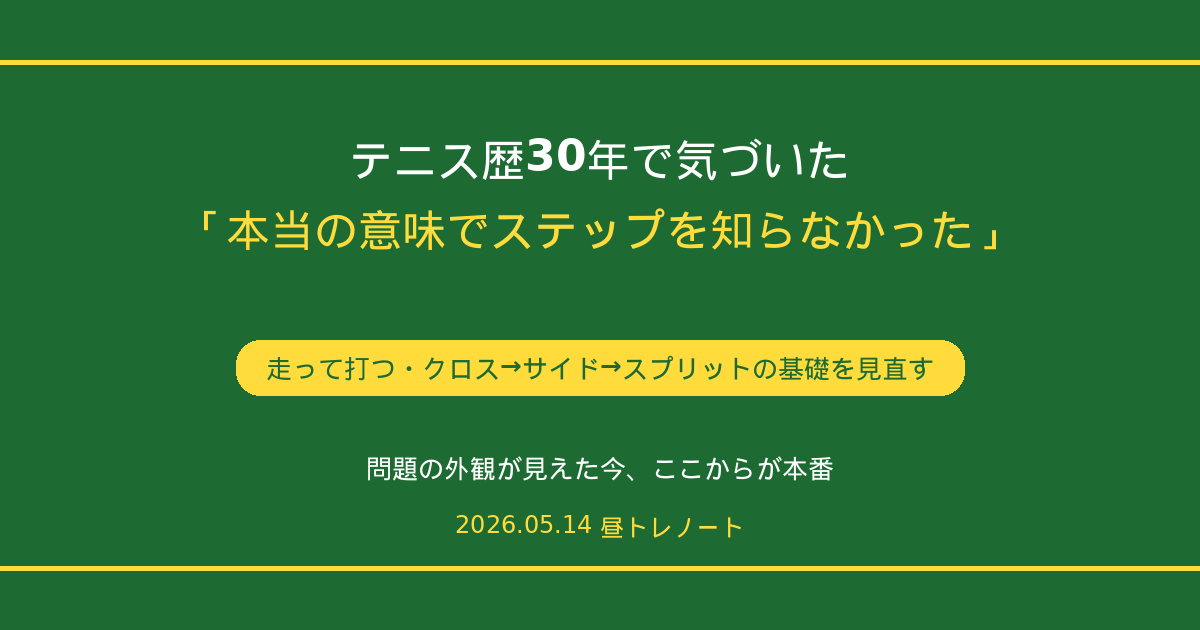
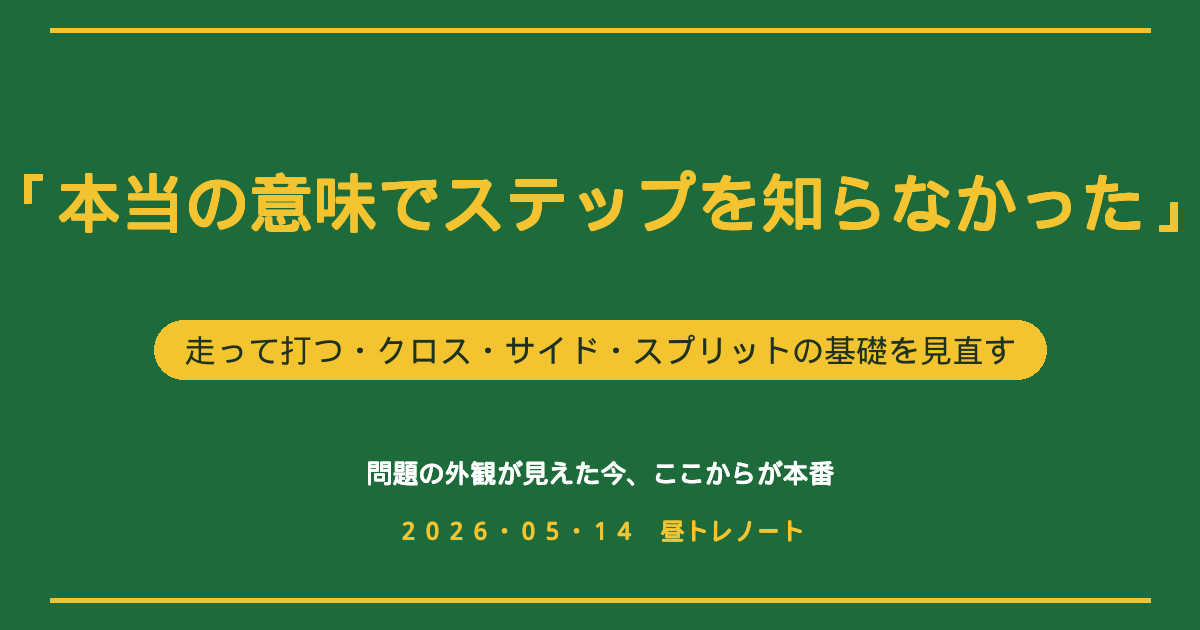
change

diff --git a/src/content/blog/tennis-0514-knew-not-the-steps.md b/src/content/blog/tennis-0514-knew-not-the-steps.md
@@ -1,28 +1,24 @@
 ---
-title: "テニス歴30年で気づいた『本当の意味でステップを知らなかった』｜走って打つ・クロス→サイド→スプリットの基礎を見直した昼トレ｜2026.05.14"
-description: "テニス歴30年弱で気づいた驚きの事実『本当の意味でステップを知らなかった』。クロスステップ→サイドステップ→スプリットステップの基礎を知らずにラリーしていたから、ラリーが続かない・反応が遅い・先生に動けないと言われる、すべての理由がここに集約していた。30年目で『できていなかったものの外観』が見え始めた今、本気で動けるようになるためのステップ練習継続宣言。"
+title: "『本当の意味でステップを知らなかった』｜走って打つ・クロス→サイド→スプリットの基礎を見直した昼トレ｜2026.05.14"
+description: "気づいた驚きの事実『本当の意味でステップを知らなかった』。クロスステップ→サイドステップ→スプリットステップの基礎を知らずにラリーしていたから、ラリーが続かない・反応が遅い・先生に動けないと言われる、すべての理由がここに集約していた。30年目で『できていなかったものの外観』が見え始めた今、本気で動けるようになるためのステップ練習継続宣言。"
 pubDate: "2026-05-14"
 ---
 
-# テニス歴30年で気づいた『本当の意味でステップを知らなかった』｜走って打つ・クロス→サイド→スプリットの基礎を見直した昼トレ
+# 『本当の意味でステップを知らなかった』｜走って打つ・クロス→サイド→スプリットの基礎を見直した昼トレ
 
 今日も **昼休みのテニストレーニング** で、 **打つ→戻る→構える** を反復しました。
-
-そして、ここ数日続けてきて、自分の中で **大きな気づき** が降りてきました。
 
 > **本当の意味でステップを知らなかったね。**
 
 今日はその気づきと、ここから先に向けての宣言を残します。
 
-![テニス歴30年で気づいた『本当の意味でステップを知らなかった』](/images/tennis-0514-cover.png)
+![『本当の意味でステップを知らなかった』](/images/tennis-0514-cover.png)
 
 ---
 
 ## ① 先生に「動けないよ」と言われていた、本当の理由
 
 > **「動けてないよ」**
-> **「もっと速く動いて」**
-> **「足が遅いよ」**
 
 正直、自分でも **「動こうとはしてるんだけどな」** と思っていました。でも、結局動けていなかった。なぜか。
 
@@ -54,11 +50,11 @@ pubDate: "2026-05-14"
 
 ---
 
-## ③ テニス歴30年弱でも、伸びる余地はまだまだある
+## ③ 伸びる余地はまだまだある
 
 ここ数日の気づきで、 **完全に意識が変わりました** 。
 
-- **30年やってきても、知らないことはまだまだある**
+- **知らないことはまだまだある**
 - **知らないことを知れば、それは伸びしろになる**
 - **伸びしろがあるなら、まだ成長できる**
 
@@ -93,9 +89,9 @@ pubDate: "2026-05-14"
 
 最後に、自分自身への期待を素直に書いておきます。
 
-> **テニス歴30年弱で『本当の意味でステップを知らなかった』と気づけた人間が、ここからどこまで伸びるのか。**
+> **『本当の意味でステップを知らなかった』と気づけた人間が、ここからどこまで伸びるのか。**
 
-正直、楽しみです。 **「動けてないよ」** と言われた自分が **動けるようになるのは、そう遠くない** と思います。今のペースで気づきが降りてくるなら、たぶん、 **1〜2ヶ月後には実感できる変化** が体に現れるはず。
+正直、楽しみです。 **「動けてないよ」** と言われた自分が **動けるようになるのは、そう遠くない** と思います。今のペースで気づくなら、たぶん、 **1〜2ヶ月後には実感できる変化** が体に現れるはず。
 
 明日も、 **クロス→サイド→スプリット** 、地道に積み重ねていきます。
 
@@ -107,7 +103,7 @@ pubDate: "2026-05-14"
 
 > **テニスは、気づいた人から伸びる。**
 
-「知らない」を「知ってる」に変える瞬間が、 **成長の本当のスタート** 。気づくのに30年弱かかったとしても、 **気づけた今からが本番** です。
+「知らない」を「知ってる」に変える瞬間が、 **成長の本当のスタート** 。気づくのに数年かかったとしても、 **気づけた今からが本番** です。
 
 このブログが、同じように **「うまく動けない」「ラリーが続かない」** と悩んでいる方の、ちょっとした気づきのきっかけになれば嬉しいです。
 
